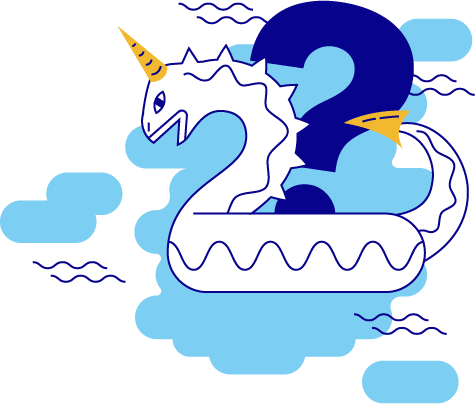
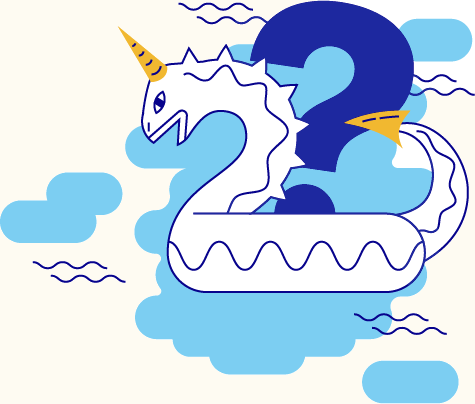
change white for sunscreen color in whole app

diff --git a/src/pages/TicketsManagementPage/TicketsManagementPage.tsx b/src/pages/TicketsManagementPage/TicketsManagementPage.tsx
@@ -153,6 +153,7 @@ interface TicketProps {
   onDetailClick: () => void
 }
 
+// TODO separate to a new file
 const Ticket = ({ ticket, onDetailClick }: TicketProps) => {
   const { t } = useTranslation()
 
@@ -185,7 +186,11 @@ const Ticket = ({ ticket, onDetailClick }: TicketProps) => {
       <span className="font-semibold mb-3 text-xl text-center">{ticket.type}</span>
       <span className="text-center mb-6">{isOneTimeTicket(ticket) ? '' : ticket.ownerName}</span>
       <div className="flex justify-center">
-        <Button color={buttonColor} className="absolute shadow-xs" onClick={onDetailClick}>
+        <Button
+          color={buttonColor}
+          className="absolute shadow-xs bg-sunscreen"
+          onClick={onDetailClick}
+        >
           {t('tickets.ticket-button')}
           <Icon className="ml-4 no-fill" name="arrow-right" />
         </Button>
@@ -262,7 +267,7 @@ const UsedTicket = ({
   const { t } = useTranslation()
 
   return (
-    <div className="flex px-8 py-6 mb-6 flex-col rounded-lg shadow-xs bg-white">
+    <div className="flex px-8 py-6 mb-6 flex-col rounded-lg shadow-xs bg-sunscreen">
       <div className="flex flex-col pb-6">
         <span>{t('tickets.ticket-type')}</span>
         <span className="font-semibold text-xl">{ticket.type}</span>
@@ -424,7 +429,7 @@ const TicketsManagementPage = () => {
                       '',
                     ]}
                     rows={dataMapped.usedTicketsRows}
-                    rowBackgroundClass="bg-white"
+                    rowBackgroundClass="bg-sunscreen"
                   ></Table>
                 </div>
                 {/* Carousel cannot be in container. */}

diff --git a/src/components/OrderSuccess/TicketsSwiper.tsx b/src/components/OrderSuccess/TicketsSwiper.tsx
@@ -80,7 +80,7 @@ const TicketsSwiper = ({ tickets }: TicketsSwiperProps) => {
       {/* Arrows must be implemented on our own to be outside the swiper. */}
       {displayButtons.previous && (
         <AriaButton
-          className="border-divider border-2 rounded-full w-12 h-12 absolute top-[calc(50%-48px)] -left-6 z-10 flex justify-center items-center bg-white"
+          className="border-divider border-2 rounded-full w-12 h-12 absolute top-[calc(50%-48px)] -left-6 z-10 flex justify-center items-center bg-sunscreen"
           onPress={handlePrevious}
         >
           <Icon name="arrow-left" className="no-fill font-fontBlack" />
@@ -88,7 +88,7 @@ const TicketsSwiper = ({ tickets }: TicketsSwiperProps) => {
       )}
       {displayButtons.next && (
         <AriaButton
-          className="border-divider border-2 rounded-full w-12 h-12 absolute top-[calc(50%-48px)] -right-6 z-10 flex justify-center items-center bg-white"
+          className="border-divider border-2 rounded-full w-12 h-12 absolute top-[calc(50%-48px)] -right-6 z-10 flex justify-center items-center bg-sunscreen"
           onPress={handleNext}
         >
           <Icon name="arrow-right" className="no-fill font-fontBlack" />

diff --git a/src/components/HomepageHowTo/HomepageHowTo.tsx b/src/components/HomepageHowTo/HomepageHowTo.tsx
@@ -29,7 +29,7 @@ const HomepageHowTo = () => {
     () =>
       items.map((item, index) => (
         <div
-          className="relative inline-flex flex-col gap-y-8 items-center flex-1 px-6 pt-16 pb-6 bg-white border-2 rounded-2xl border-secondary"
+          className="relative inline-flex flex-col gap-y-8 items-center flex-1 px-6 pt-16 pb-6 bg-sunscreen border-2 rounded-2xl border-secondary"
           key={index}
         >
           <div className="absolute flex flex-col items-center justify-center bg-secondary rounded-full text-2xl font-semibold text-primary w-16 h-16 -top-8">
@@ -54,7 +54,7 @@ const HomepageHowTo = () => {
         </Typography>
       </div>
       <div className="hidden md:flex container mx-auto justify-center">
-        <div className="inline-flex flex-col gap-y-20 items-center justify-start pt-12 pb-16 bg-white">
+        <div className="inline-flex flex-col gap-y-20 items-center justify-start pt-12 pb-16 bg-sunscreen">
           <div className="grid grid-cols-2 lg:grid-cols-4 gap-8 justify-start max-w-[1216px]">
             {itemsComponents}
           </div>

diff --git a/src/components/Button/Button.tsx b/src/components/Button/Button.tsx
@@ -4,7 +4,7 @@ import './Button.css'
 
 interface ButtonProps {
   // TODO: Rename to `type`.
-  color?: 'primary' | 'secondary' | 'outlined' | 'blueish' | 'white'
+  color?: 'primary' | 'secondary' | 'outlined' | 'blueish' | 'white' | 'sunscreen'
   htmlType?: 'button' | 'submit' | 'reset'
   thin?: boolean
   onClick?: () => void
@@ -30,6 +30,7 @@ const Button = ({
     outlined: 'text-primary',
     blueish: 'text-primary',
     white: 'text-primary',
+    sunscreen: 'text-primary',
   }[color]
   const bgColor = {
     primary: 'bg-primary',
@@ -37,6 +38,7 @@ const Button = ({
     outlined: 'bg-transparent',
     blueish: 'bg-blueish',
     white: 'bg-white',
+    sunscreen: 'bg-sunscreen',
   }[color]
   const borderColor = {
     primary: 'border-primary',
@@ -44,6 +46,7 @@ const Button = ({
     outlined: 'border-primary',
     blueish: 'border-blueish',
     white: 'border-transparent',
+    sunscreen: 'border-transparent',
   }[color]
   const thinClass = thin ? 'p-1' : 'p-2'
   const roundedClass = rounded ? 'rounded-lg' : 'rounded'

diff --git a/src/components/Header/Header.tsx b/src/components/Header/Header.tsx
@@ -69,7 +69,7 @@ const Header = () => {
 
   return (
     <>
-      <div className="bg-white shadow-xs py-3 md:py-4 sticky top-0 z-40 w-full header">
+      <div className="bg-sunscreen shadow-xs py-3 md:py-4 sticky top-0 z-40 w-full header">
         <div className="container mx-auto text-fontBlack flex justify-between">
           <Link className="text-primary font-bold text-xl cursor-pointer" to="/">
             STARZ
@@ -125,7 +125,7 @@ const Header = () => {
         <nav
           className={`${
             open ? 'w-3/4' : 'w-0'
-          } md:hidden overflow-hidden fixed top-0 right-0 bottom-0 flex-col flex flex-1 bg-white transition-all z-10`}
+          } md:hidden overflow-hidden fixed top-0 right-0 bottom-0 flex-col flex flex-1 bg-sunscreen transition-all z-10`}
         >
           <div className="py-12 px-4 flex flex-col flex-1 justify-between">
             <div className="flex flex-col">

diff --git a/src/components/ThreeDots/ThreeDots.tsx b/src/components/ThreeDots/ThreeDots.tsx
@@ -20,14 +20,14 @@ const ThreeDots = ({ buttons }: ThreeDotsProps) => {
         <Icon name="three-dots" className="no-fill" />
       </Button>
       <Popover>
-        <Dialog className="py-2 bg-white inline-flex flex-col items-start rounded-lg drop-shadow-lg overflow-clip">
+        <Dialog className="py-2 bg-sunscreen inline-flex flex-col items-start rounded-lg drop-shadow-lg overflow-clip">
           {({ close }) => (
             <>
               {buttons.map((button, index) => (
                 <Button
                   key={index}
                   className={cx(
-                    'px-5 bg-white gap-2.5 inline-flex items-center self-stretch text-left hover:bg-gray-100',
+                    'px-5 bg-sunscreen gap-2.5 inline-flex items-center self-stretch text-left hover:bg-gray-100',
                     button.className,
                   )}
                   onPress={() => {

diff --git a/src/components/Dialog/Dialog.tsx b/src/components/Dialog/Dialog.tsx
@@ -36,7 +36,7 @@ const Dialog = ({
       {cloneElement(
         wrapper,
         {},
-        <AriaDialog className="bg-white rounded-lg flex flex-col max-h-[calc(70vh-8px)] max-w-[calc(100vw-8px)]">
+        <AriaDialog className="bg-sunscreen rounded-lg flex flex-col max-h-[calc(70vh-8px)] max-w-[calc(100vw-8px)]">
           <div className="flex flex-row items-center justify-between gap-6 px-6 py-4 border-b-2 border-b-divider">
             <Heading className="text-gray-800 text-xl font-semibold">{title}</Heading>
             <Button onPress={() => onClose()} aria-label="Zatvoriť">

diff --git a/src/components/CookieConsent/CookieConsent.tsx b/src/components/CookieConsent/CookieConsent.tsx
@@ -209,7 +209,7 @@ const CookieConsent = () => {
         ariaDeclineLabel={t('cookie-consent.reject-aria-label')}
         flipButtons
         buttonWrapperClasses="flex flex-wrap gap-x-6 gap-y-3"
-        containerClasses="bg-white rounded-lg container mx-auto shadow-lg mb-4 md:mb-6 flex-col px-10 py-8 gap-y-8"
+        containerClasses="bg-sunscreen rounded-lg container mx-auto shadow-lg mb-4 md:mb-6 flex-col px-10 py-8 gap-y-8"
         contentStyle={{
           flex: undefined, // to override defaults
           margin: undefined, // to override defaults

diff --git a/src/components/HomepageTickets/HomepageTickets.tsx b/src/components/HomepageTickets/HomepageTickets.tsx
@@ -82,7 +82,7 @@ const HomepageTickets = () => {
                   <div
                     key={ticket.id}
                     className={cx(
-                      'px-6 py-4 rounded-lg flex flex-col lg:flex-row gap-8 border border-divider lg:items-center bg-white',
+                      'px-6 py-4 rounded-lg flex flex-col lg:flex-row gap-8 border border-divider lg:items-center bg-sunscreen',
                       { 'cursor-pointer': !ticket.disabled },
                     )}
                     onClick={() => handleClick(ticket)}

diff --git a/src/components/ProfilePage/ProfilePageSwimmers.tsx b/src/components/ProfilePage/ProfilePageSwimmers.tsx
@@ -48,7 +48,7 @@ const ProfilePageSwimmers = () => {
         ></ProfilePageDeleteAssociatedSwimmerModal>
       )}
 
-      <div className="inline-flex flex-col rounded-lg bg-white lg:col-span-5">
+      <div className="inline-flex flex-col rounded-lg bg-sunscreen lg:col-span-5">
         <div className="px-6 py-4 gap-6 flex border-b-2 border-b-divider flex-col sm:flex-row">
           <div className="flex-1 gap-1 flex flex-col flex-grow">
             <p className="text-xl font-semibold">Priradené osoby</p>

diff --git a/src/components/Modal/Modal.tsx b/src/components/Modal/Modal.tsx
@@ -63,7 +63,7 @@ const Modal = ({
           <div className={cx('relative', { 'px-4': closeButton })}>
             <div
               className={cx(
-                'relative bg-white rounded-lg shadow-lg overflow-y-auto',
+                'relative bg-sunscreen rounded-lg shadow-lg overflow-y-auto',
                 modalClassName,
               )}
               /* Calculates max height of modal, subtracts the overflow of button and close button. */

diff --git a/src/components/ProfilePage/ProfilePageUser.tsx b/src/components/ProfilePage/ProfilePageUser.tsx
@@ -49,7 +49,7 @@ const ProfilePageUser = () => {
           )}
         </>
       )}
-      <div className="bg-white rounded-lg lg:col-span-7">
+      <div className="bg-sunscreen rounded-lg lg:col-span-7">
         <div className="px-6 py-4 gap-6 flex items-start sm:items-center border-b-2 border-b-divider flex-col sm:flex-row">
           <div className="flex flex-1 flex-col gap-1">
             <p className="font-semibold text-xl">Osobné údaje</p>
